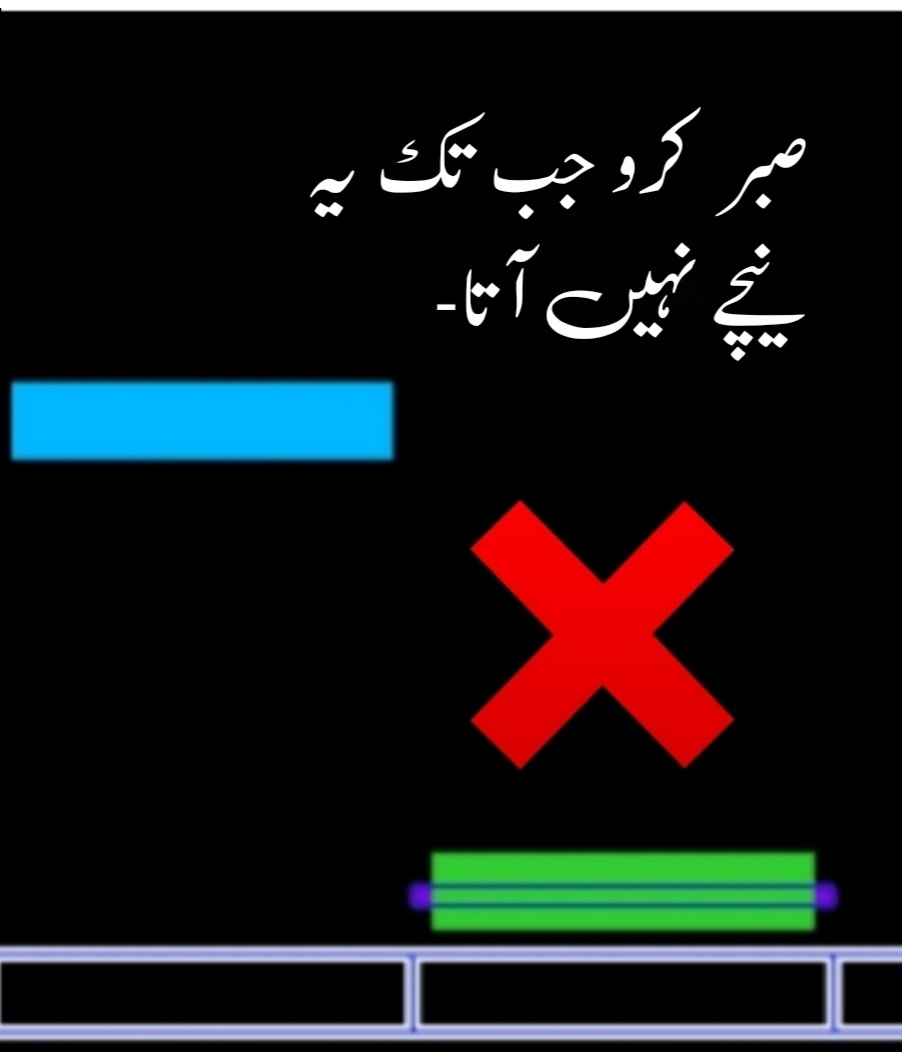
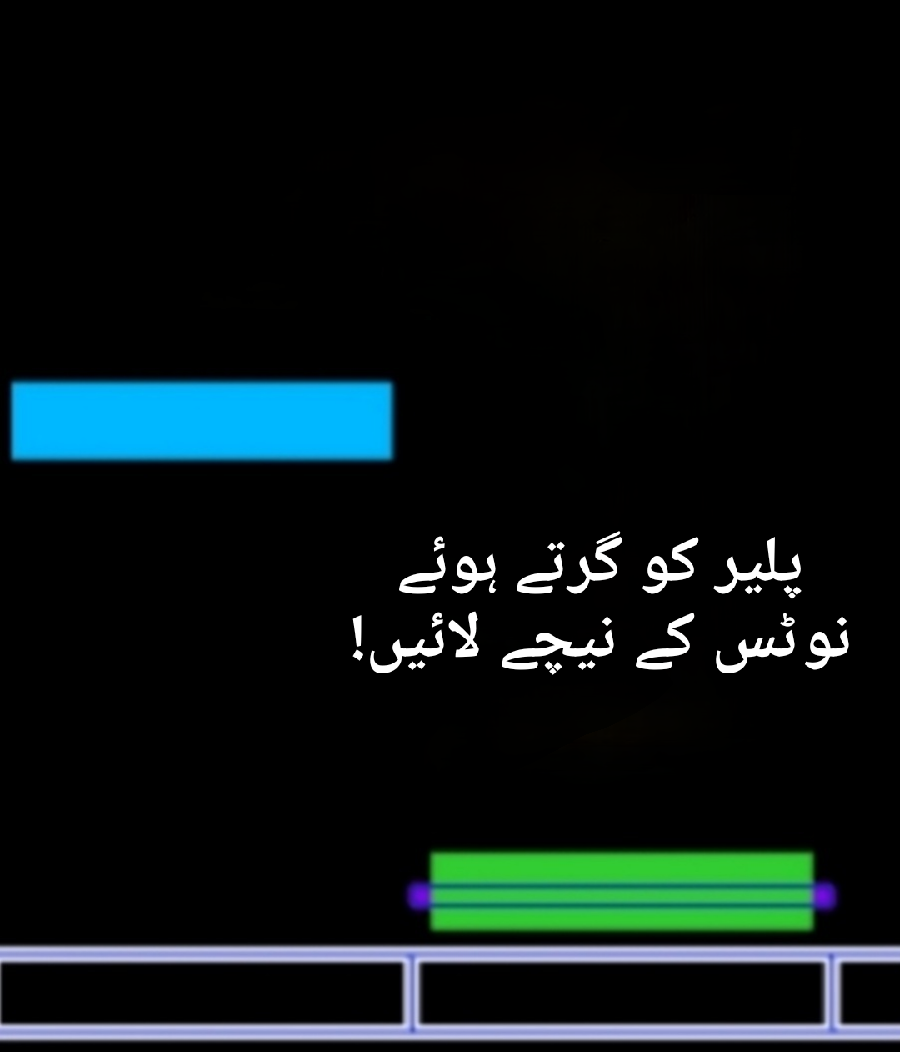
PRE-RELEASE

diff --git a/game.js b/game.js
@@ -1,6 +1,7 @@
 class TitleScene extends Phaser.Scene {
     constructor() {
         super({ key: 'TitleScene' });
+        this.triangleEffectEventId = null;
     }
 
     preload() {
@@ -64,7 +65,7 @@ class TitleScene extends Phaser.Scene {
     }
 
     create() {
-
+        this.toggleBlueTriangleEffect()
         const title = this.add.image(
             this.cameras.main.centerX, 
             this.cameras.main.centerY - 100, 
@@ -74,7 +75,7 @@ class TitleScene extends Phaser.Scene {
         .setScale(0.5);
 
         const playButton = this.add.image(
-            this.cameras.main.centerX - 110 , 
+            this.cameras.main.centerX - 70 , 
             this.cameras.main.centerY + 20, 
             'playbutton'
         )
@@ -83,12 +84,13 @@ class TitleScene extends Phaser.Scene {
         this.addButtonEffects(playButton);
         
         playButton.on('pointerdown', () => {
+            this.toggleBlueTriangleEffect()
             this.showlevelselector(title, playButton, optionsButton, creditsButton);
         });
 
         
         const optionsButton = this.add.image(
-            this.cameras.main.centerX - 155,
+            this.cameras.main.centerX - 120,
             this.cameras.main.centerY + 110, 
             'optionsbutton'
         )
@@ -96,11 +98,12 @@ class TitleScene extends Phaser.Scene {
         .setScale(0.5);
         this.addButtonEffects(optionsButton);
         optionsButton.on('pointerdown', () => {
+            this.toggleBlueTriangleEffect()
             this.showoptions(title, playButton, optionsButton, creditsButton);
         });
         
         const creditsButton = this.add.image(
-            this.cameras.main.centerX - 55,
+            this.cameras.main.centerX - 20,
             this.cameras.main.centerY + 110, 
             'creditsbutton'
         )
@@ -108,6 +111,7 @@ class TitleScene extends Phaser.Scene {
         .setScale(0.25);
         this.addButtonEffects(creditsButton);
         creditsButton.on('pointerdown', () => {
+            this.toggleBlueTriangleEffect()
             this.showInfo(title, playButton, optionsButton, creditsButton);
         });
         
@@ -115,7 +119,7 @@ class TitleScene extends Phaser.Scene {
             'waow grape game!',
             'moosic gaem',
             'nihon banzai!!',
-            'INDEV',
+            'game done!',
             'BARISH KYUN NAI A RHI',
             'bruh october mein 40*C',
             'mujhe bhi javascript ati he',
@@ -124,7 +128,7 @@ class TitleScene extends Phaser.Scene {
             '4 NULL POINTERS!?',
             'bit bugged',
             'MINECRAFT TEXT',
-            'version 0.4!!!',
+            'version 1!!!',
             'tahaaaaaaaaaaaa',
             'a null pointer!',
             'dont talk to D ranks',
@@ -134,13 +138,13 @@ class TitleScene extends Phaser.Scene {
             'play when??',
             'better then before!',
             'rythm gaem',
-            'absolute say gex',
+            'absolute say',
             'struggle ni krni chahye',
             'sir game se gpa bn jaye gi?',
             'kal assaignment kya thi?',
             'shahzaibchan best n- around',
             'absolute cinema',
-            'waow iphone!',
+            'waow eye-phone!',
             'send money for free',
             'HOE MERA YASSU YASSU',
             'juice pila doo',
@@ -152,7 +156,8 @@ class TitleScene extends Phaser.Scene {
             'its in the game',
             'like share and subscribe tyty',
             'we live in a society',
-            'pop-in-three next!',
+            'next stop -!',
+            'bubblearcade..'
         ];
 
         const randomSubtext = Phaser.Utils.Array.GetRandom(epicgamermotivationalsubtitlelistthing);
@@ -187,6 +192,51 @@ class TitleScene extends Phaser.Scene {
             yoyo: true,
             repeat: -1
         });
+    }
+
+    createBlueTriangleEffect() {
+        const createBlueTriangle = () => {
+            let triangle = this.add.polygon(
+                Phaser.Math.Between(0, this.cameras.main.width), 
+                this.cameras.main.height, 
+                [0, 20, 10, 0, 20, 20], 
+                Phaser.Utils.Array.GetRandom([0x1E90FF, 0x00BFFF, 0xADD8E6, 0x87CEFA, 0x4682B4])
+            );
+
+            let randomUpwardDistance = Phaser.Math.Between(100, 400);
+            this.tweens.add({
+                targets: triangle,
+                y: triangle.y - randomUpwardDistance,
+                angle: triangle.angle + Phaser.Math.Between(90, 360),
+                alpha: 0, 
+                duration: 1000,
+                ease: 'Power3',
+                onComplete: () => {
+                    triangle.destroy();
+                }
+            });
+        };
+
+        this.triangleEffectEventId = this.time.addEvent({
+                delay: 100,
+                callback: createBlueTriangle,
+                loop: true
+            });
+        }
+
+    stopBlueTriangleEffect() {
+         if (this.triangleEffectEventId) {
+             this.time.removeEvent(this.triangleEffectEventId); 
+             this.triangleEffectEventId = null;
+         }
+     }
+
+    toggleBlueTriangleEffect() {
+    if (this.triangleEffectEventId) {
+        this.stopBlueTriangleEffect();
+    } else {
+        this.createBlueTriangleEffect();
+    }
     }
     
     showlevelselector(title, playButton, optionsButton, creditsButton) {
@@ -594,7 +644,7 @@ class TitleScene extends Phaser.Scene {
         const description = this.add.text(
             this.cameras.main.centerX, 
             this.cameras.main.centerY - 35, 
-            'You score when a note falls on the playertile! (You dont have to move it again if its already there)\n\n The Score counts only when\nthe note hits\nthe tile,\non time!\n.', 
+            'Move the tile to make notes fall on it!\n\n The Score counts only when\nthe note hits\nthe tile\non time!\n', 
             { fontSize: '20px', fill: '#FFF', fontFamily: 'Comic Sans MS',  align: 'center', wordWrap: { width: 400 }}
         ).setOrigin(0.5);
 
@@ -657,8 +707,8 @@ class TitleScene extends Phaser.Scene {
         
         const description1 = this.add.text(
             this.cameras.main.centerX, 
-            this.cameras.main.centerY + 95, 
-            'Under the platform there is a RythmBar. When you miss a note or if you make an invalid move, it gets smaller.\nOngoing level fails when your Rythmbar runs out. You can restore your Rythmbar by scoring more points!\n\n Notes will keep spawning until the song plays and when finished you will get a ranked result!', 
+            this.cameras.main.centerY + 115, 
+            'Below the platform, you will find a RythmBar. If you miss a note or make an invalid move, the bar will shrink.\nThe level fails when your RythmBar runs out. You can restore your RythmBar by scoring more points!\nNotes will continue to spawn while the song is playing, and once it finishes, you will receive a ranked result!', 
             { fontSize: '20px', fill: '#FFF', fontFamily: 'Comic Sans MS',  align: 'center', wordWrap: { width: 400 }}
         ).setOrigin(0.5);
 
@@ -706,14 +756,14 @@ class TitleScene extends Phaser.Scene {
         const description = this.add.text(
             this.cameras.main.centerX, 
             this.cameras.main.centerY - 130, 
-             'Notes neeche ayein ge\nplatform ki 4 lanes hein.',
+             'نوٹس نیچے آئیں گے\nپلیٹ فارم کی 4 لینز ہیں',
                  { fontSize: '18px', fill: '#FFF',fontFamily: 'Comic Sans MS', align: 'center', wordWrap: { width: 400 } }
         ).setOrigin(0.5);
 
         const description2 = this.add.text(
             this.cameras.main.centerX - 170, 
             this.cameras.main.centerY + 50, 
-             'Mobile pe platform segment\n ko sirf tap krna he\n us se highlighter us lane\n mein chala jaye ga.\n\nAgr PC pe ho to\n A S D F\n keys use kro movement\n ke liye.', 
+            'پلیٹ فارم کے حصے پر ٹیپ کریں \nتاکہ پلیئر ٹائل کو لینز\n کے درمیان حرکت دی جا سکے۔ \nاگر آپ پی سی پر کھیل رہے ہیں، \nتو حرکت کرنے کے لیے ا س د ف کیز کا\n استعمال کریں۔', 
                  { fontSize: '18px', fill: '#FFF',fontFamily: 'Comic Sans MS', align: 'center', wordWrap: { width: 400 } }
         ).setOrigin(0.5);
 
@@ -765,7 +815,7 @@ class TitleScene extends Phaser.Scene {
         const description = this.add.text(
             this.cameras.main.centerX, 
             this.cameras.main.centerY - 15, 
-            'Jb playertile, \n(choti purple bar)\n pe note girta he to score count hota\n playertile ko hila ke notes ko pakrna he\n\nNote!:\n Movement\n slow kro\nto score \nmiss hota he.', 
+            'جب پلیئر ٹائل\n (چھوٹی جامنی بار)\n پر نوٹ گرتا ہے تو اسکور شمار ہوتا ہے۔\n پلیئر ٹائل کو حرکت دے کر نوٹس کو پکڑنا ہے۔\n\nنوٹ:\n اگر حرکت آہستہ کریں\n تو اسکور ضائع ہو جاتا ہے۔', 
             { fontSize: '20px', fill: '#FFF', fontFamily: 'Comic Sans MS',  align: 'center', wordWrap: { width: 400 }}
         ).setOrigin(0.5);
 
@@ -829,7 +879,7 @@ class TitleScene extends Phaser.Scene {
         const description1 = this.add.text(
             this.cameras.main.centerX, 
             this.cameras.main.centerY + 95, 
-            'Lanes de thalle RythmBar he.\n Jab bhi galat lane pe move ya note miss kro ge to usse minus pre ga.\nBar khatam hone pe game over ho jati. Points score kr ke RythmBar ko recover kr sakte ho.\n Notes gane ke saath synced hein (bari mehnat wala kaam he) jb gana complete ho ga to notes ana band ho jain ge te level poora ho jaye ga.', 
+            'لینز کے نیچے رِدھم بار ہے۔\n جب بھی غلط لین پر حرکت کریں یا نوٹ مس کریں گے، تو اس سے اسکور کم ہو جائے گا۔\n بار ختم ہونے پر گیم اوور ہو جاتی ہے۔ پوائنٹس اسکور کر کے رِدھم بار کو بحال کر سکتے ہیں۔\n نوٹس گانے کے ساتھ مطابقت رکھتے ہیں (یہ بہت محنت والا کام ہے)۔ جب گانا مکمل ہو گا، تو نوٹس آنا بند ہو جائیں گے اور لیول مکمل ہو جائے گا۔', 
             { fontSize: '20px', fill: '#FFF', fontFamily: 'Comic Sans MS',  align: 'center', wordWrap: { width: 400 }}
         ).setOrigin(0.5);
 
